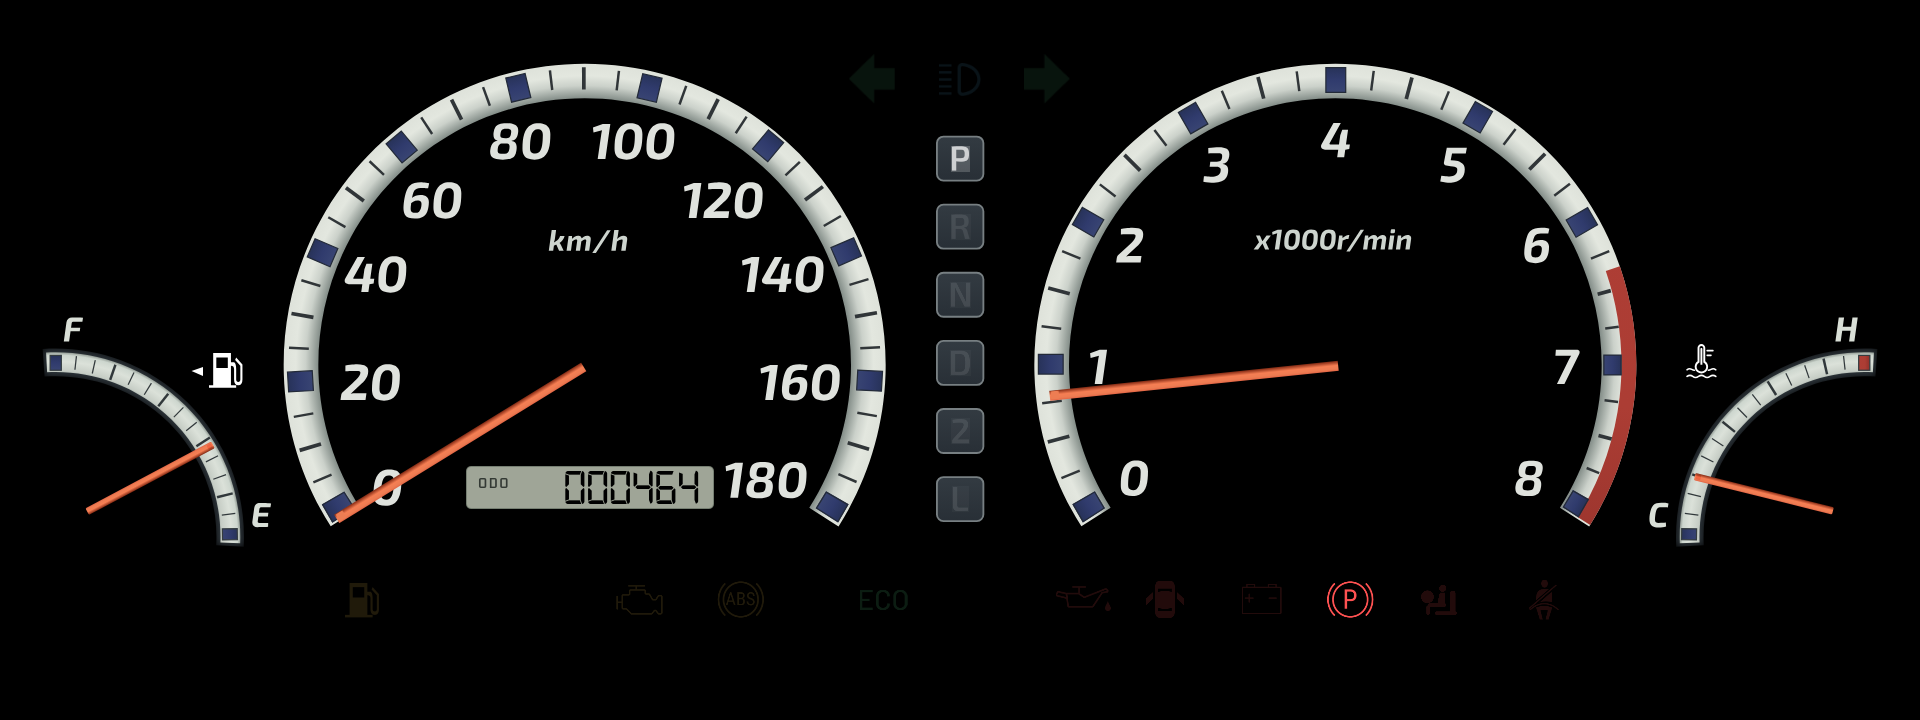
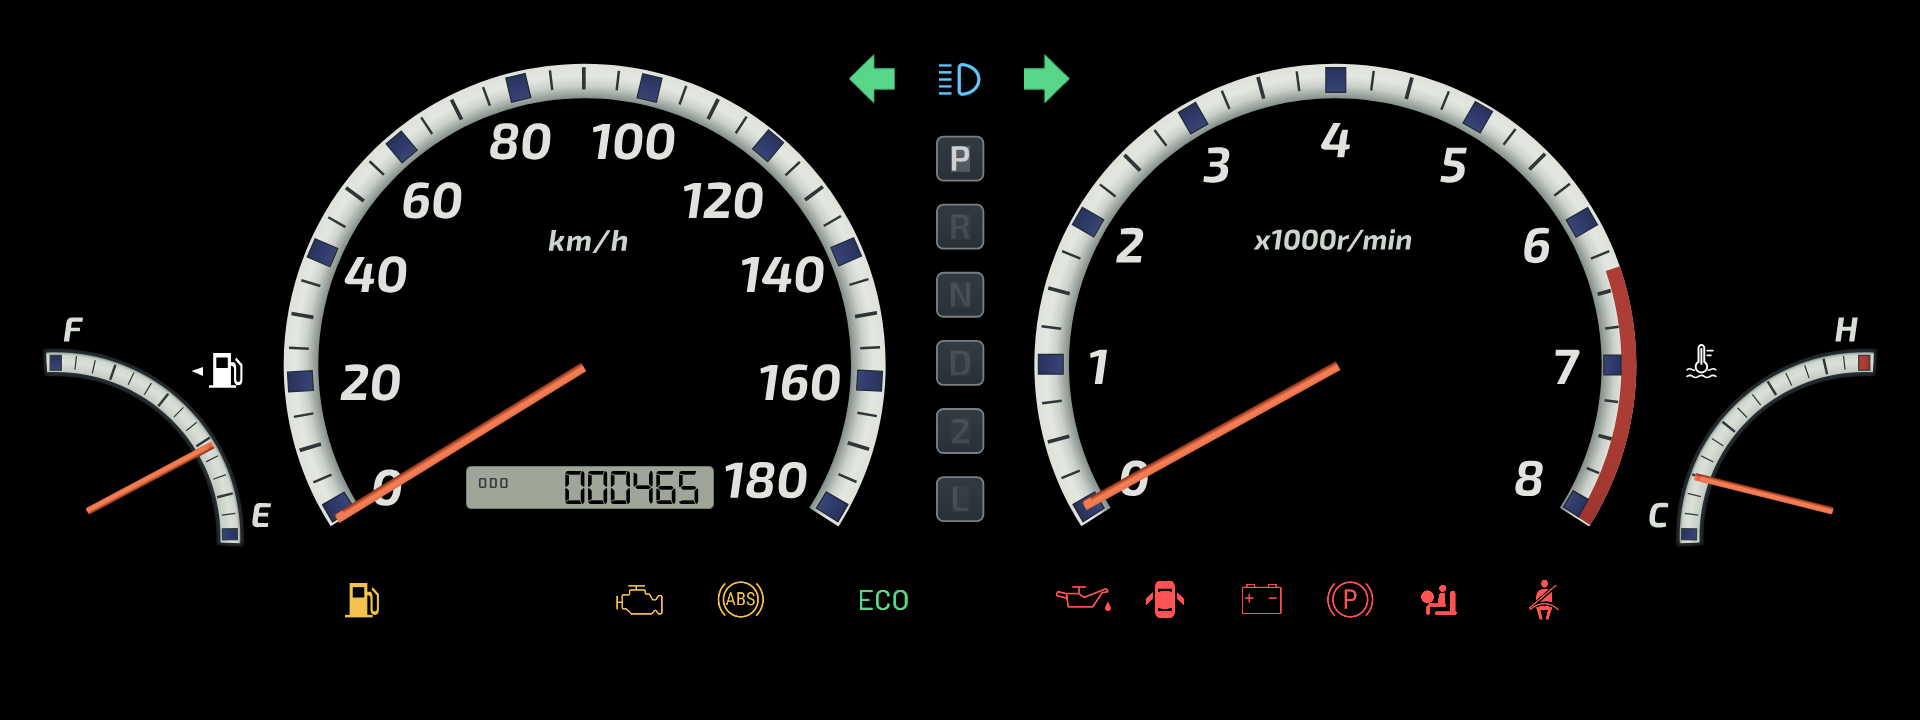
dsh: Gaia — погашенные лампы, поворотники и дальний свет не видны совсем (opacity 0)

diff --git a/Dashboard/GaiaSkin.qml b/Dashboard/GaiaSkin.qml
@@ -81,11 +81,14 @@ Item {
     readonly property color accentOut: "#F67E53"
     readonly property color accentDark: "#832913"
     readonly property color lampColor: "#E8EAE6"
+    // Погашенная лампа НЕ просматривается совсем (просьба заказчика):
+    // раньше оставался еле видный силуэт 10–16 %, и значки читались днём
+    // даже выключенными. Теперь в выключенном состоянии их просто нет.
     readonly property real lampOnOpacity: 1.0
-    readonly property real lampOffOpacity: 0.14
+    readonly property real lampOffOpacity: 0.0
     readonly property real gearOnOpacity: 1.0
     readonly property real gearOffOpacity: 0.16
-    readonly property real arrowOffOpacity: 0.10
+    readonly property real arrowOffOpacity: 0.0
 
     // ---- геометрия из макета ----
     readonly property real dialLeftPivotX: 583.4

diff --git a/docs/skin.md b/docs/skin.md
@@ -88,7 +88,12 @@ python3 tools/gaia_text.py     # что написано на шкалах (OCR 
     нулями, подпись в верхнем углу плашки;
   - `TRIP A` / `TRIP B` — `CanBackend.tripA` / `tripB` с одним знаком после
     точки, подпись в нижнем углу плашки (как просил заказчик).
-  Кнопку на подрулевом, которая будет переключать режимы в машине, пока не
+  Погашенные лампы, поворотники и дальний свет **не видны совсем**
+(`lampOffOpacity` / `arrowOffOpacity` = 0): раньше оставался еле заметный
+силуэт 10–16 %, и значки читались даже выключенными. Сами карточки передач
+остаются приглушёнными — иначе не понять, какие передачи вообще есть.
+
+Кнопку на подрулевом, которая будет переключать режимы в машине, пока не
   присылают по CAN — поэтому вход через нажатие и клавишу.
   Экран объявлен в QML **до стрелок**, поэтому стрелка проходит поверх
   плашки (просьба заказчика), а не наоборот.
